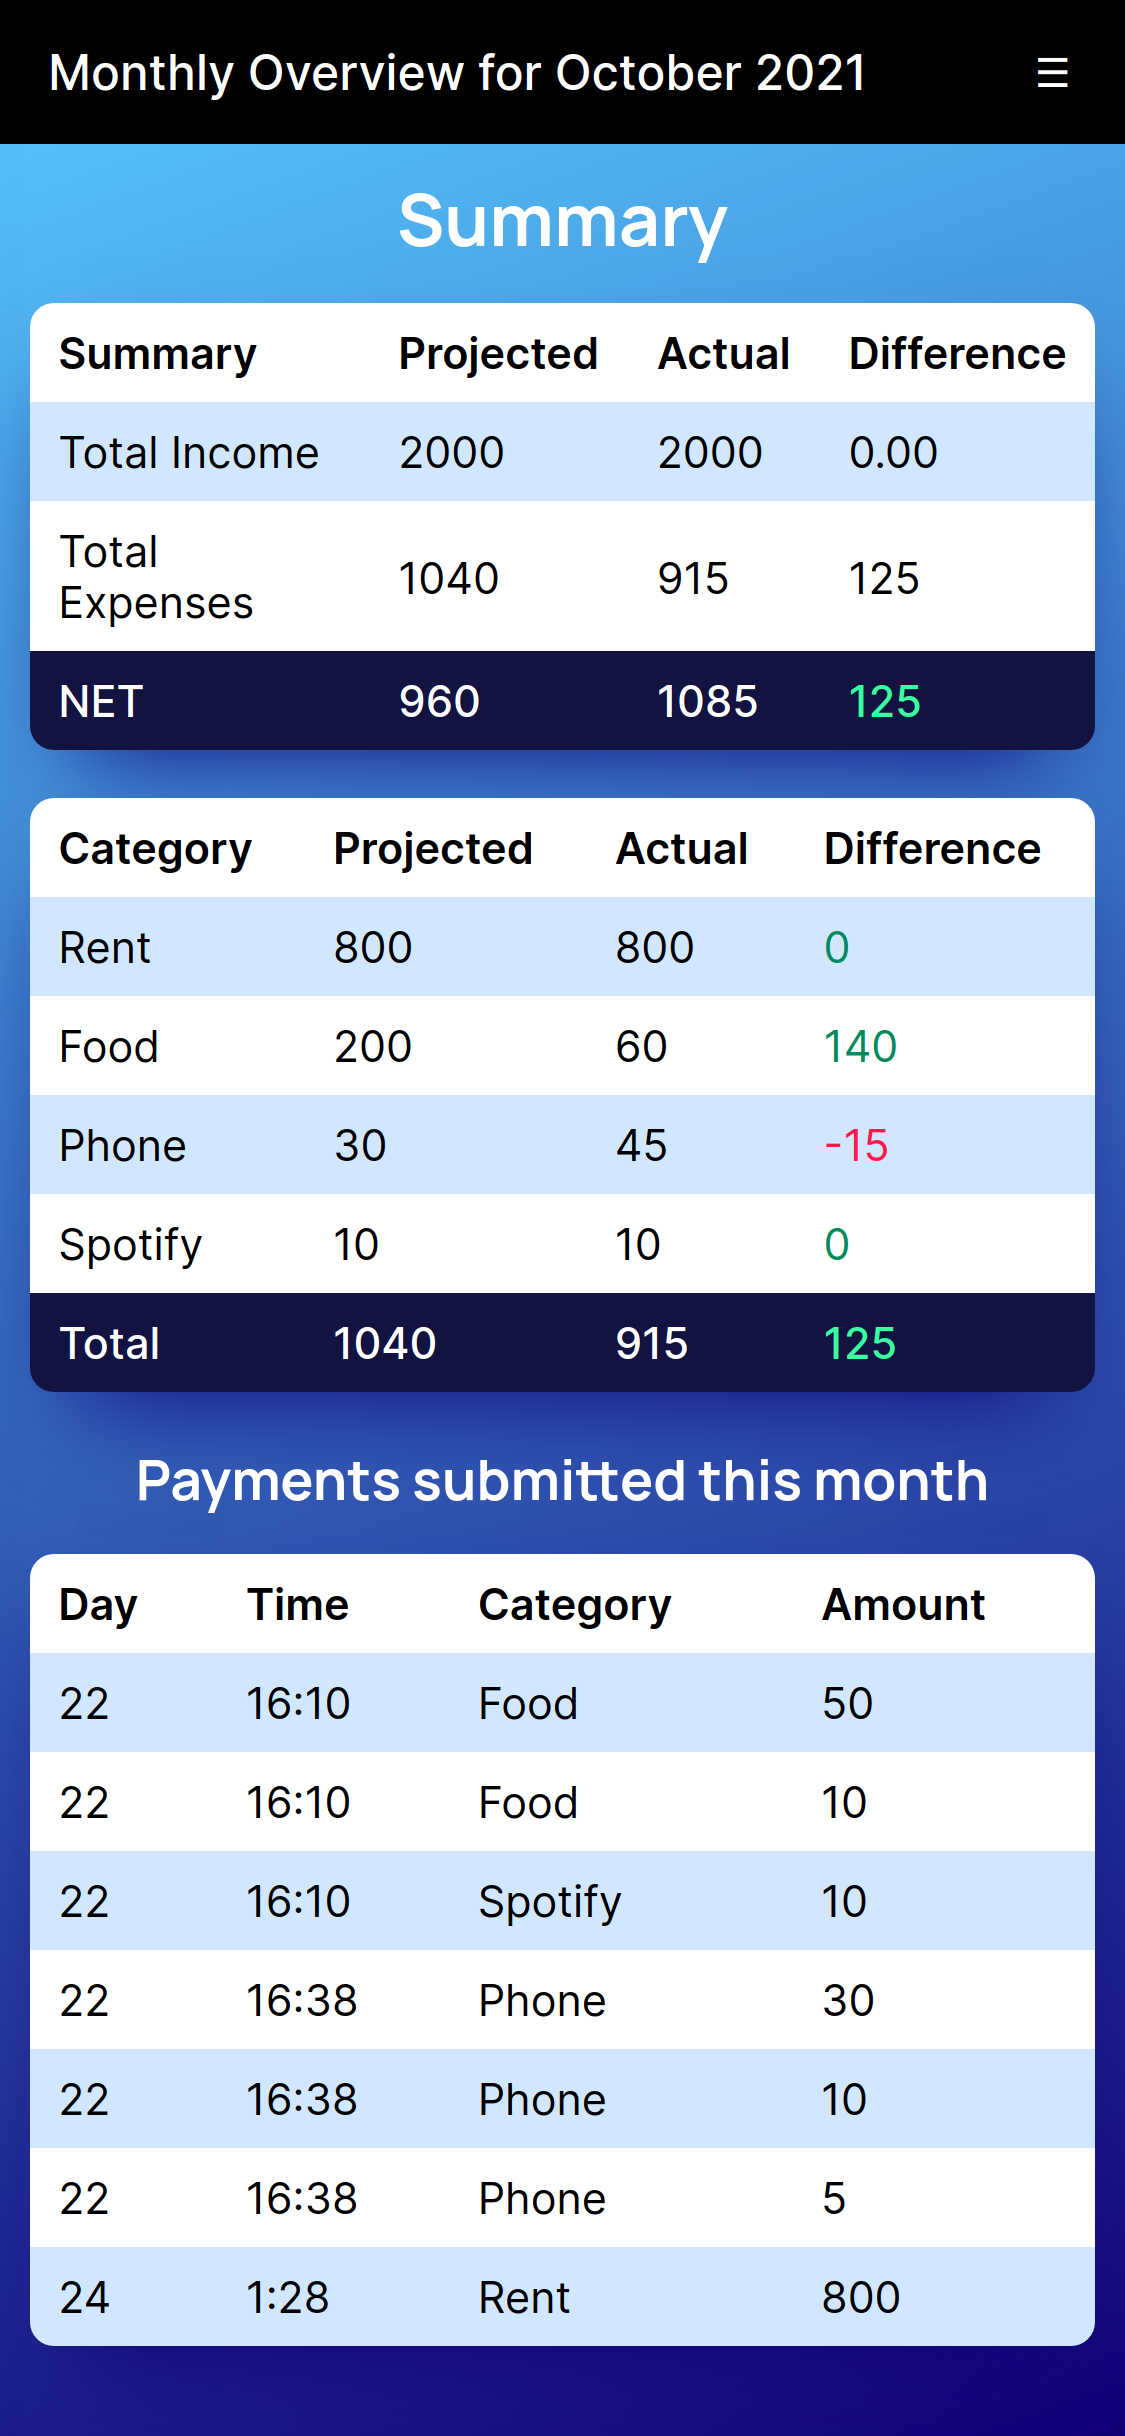
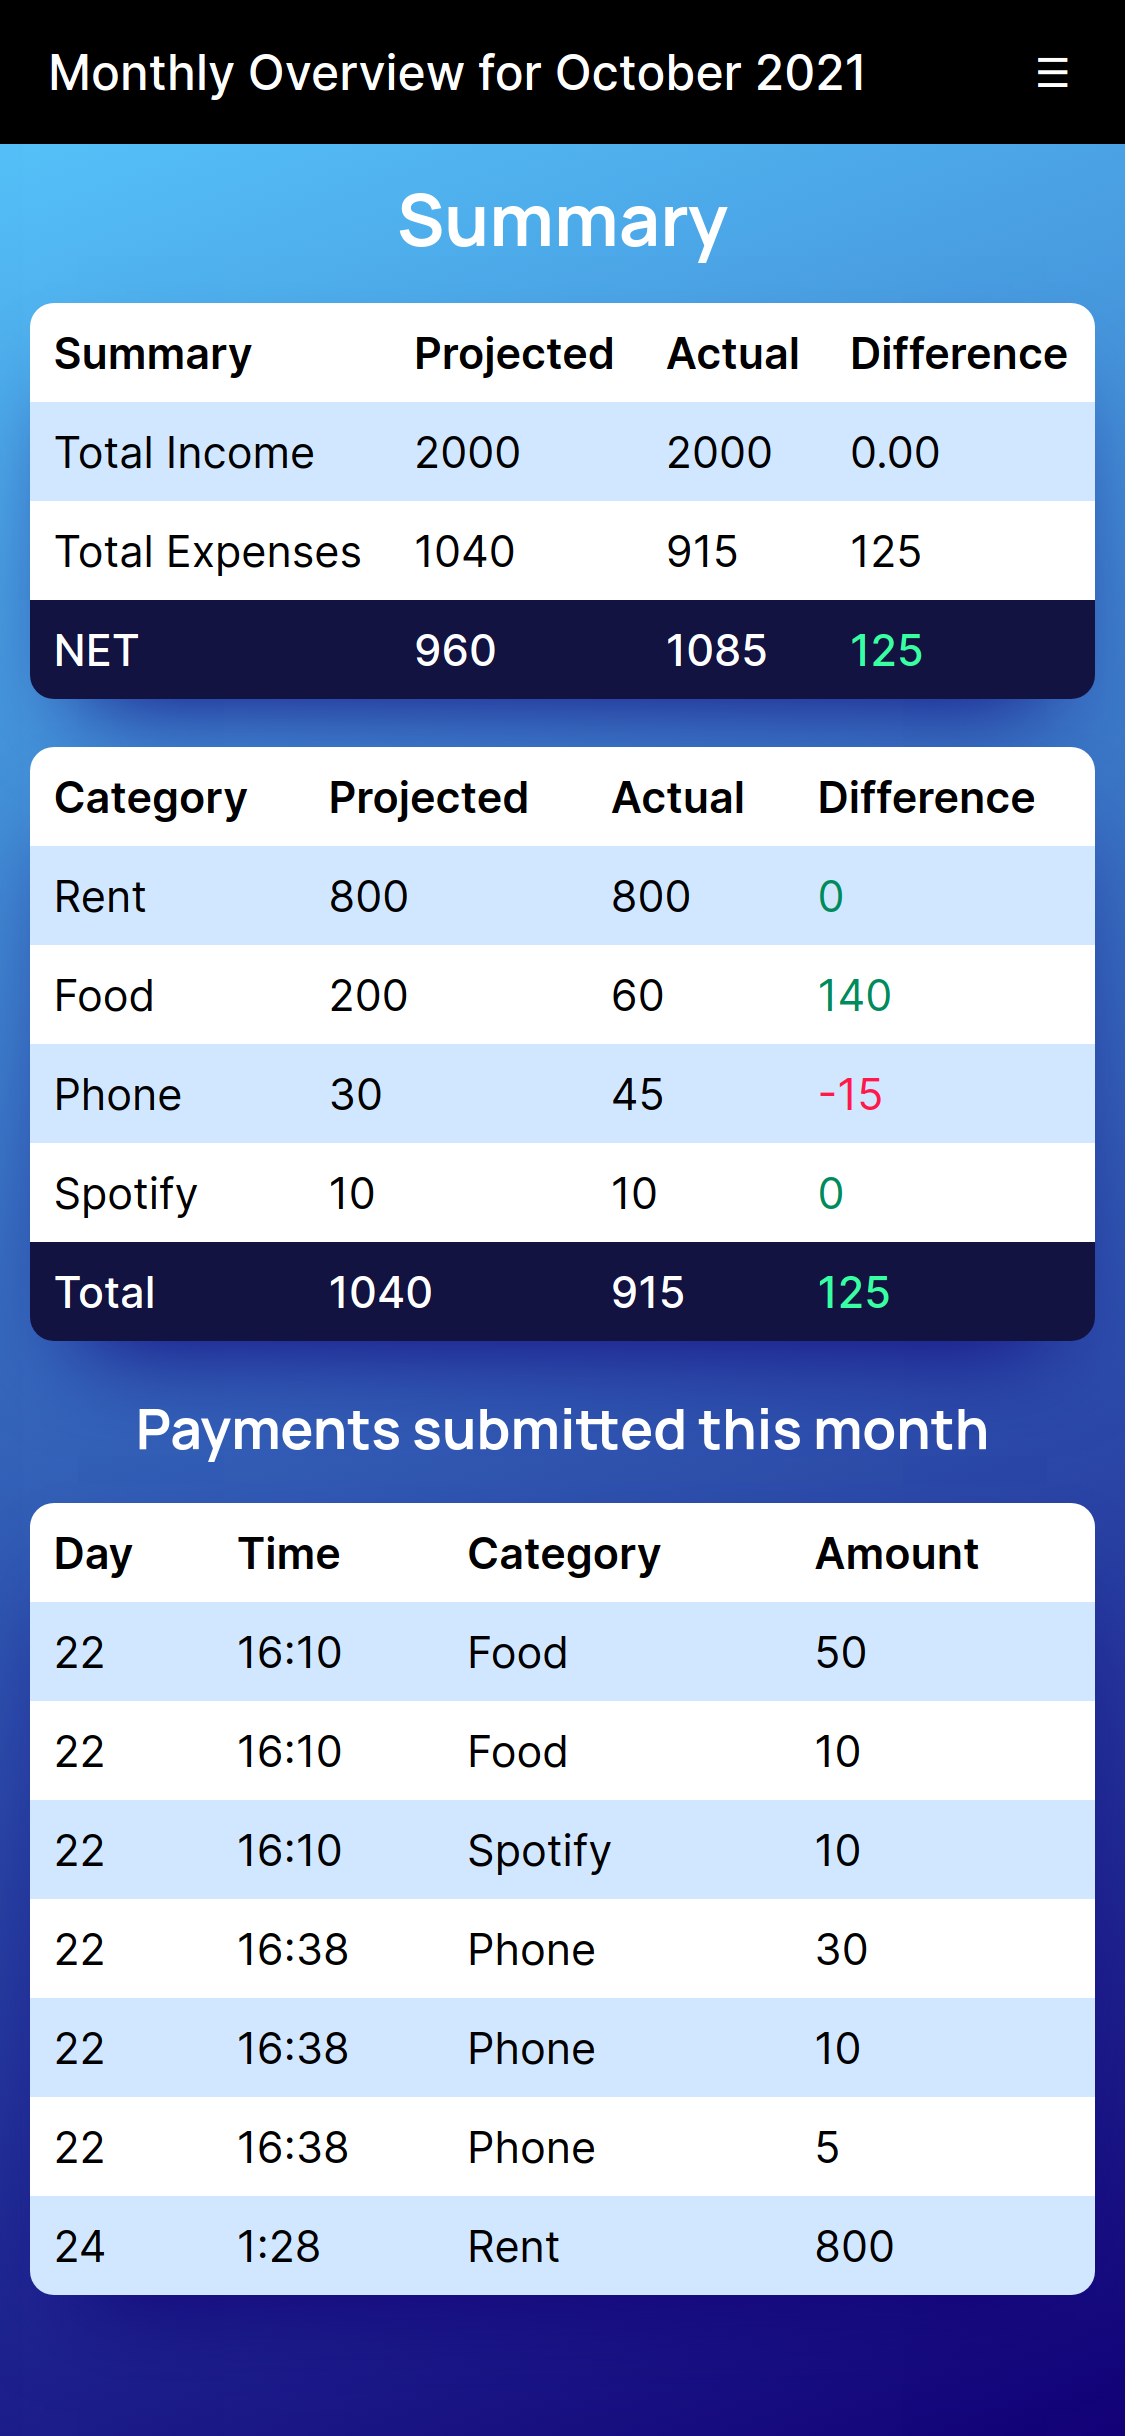
updated

diff --git a/static/css/style.css b/static/css/style.css
@@ -123,7 +123,7 @@ th {
 
 th,
 td {
-	padding: 0.5rem 0.6rem;
+	padding: 0.5rem 0.5rem;
 }
 
 tfoot tr {
